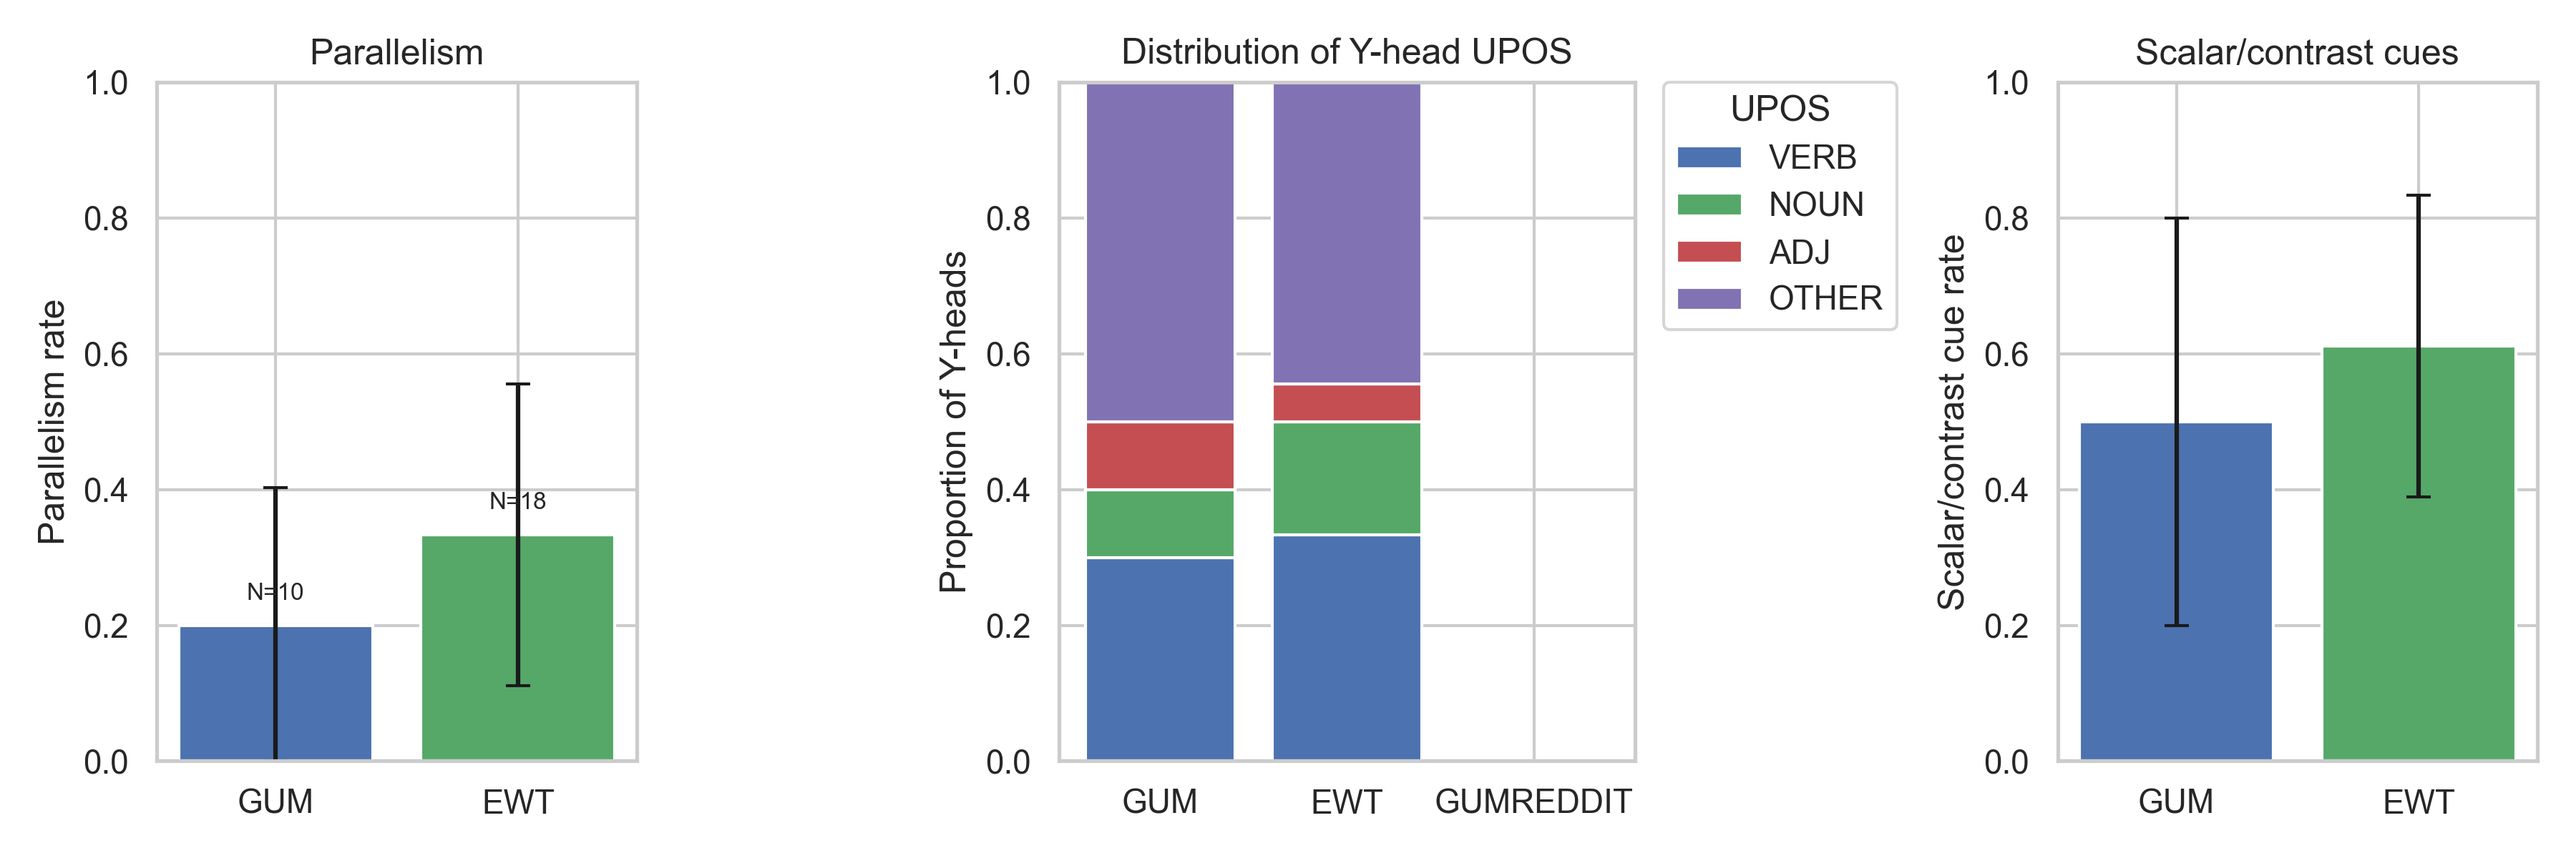
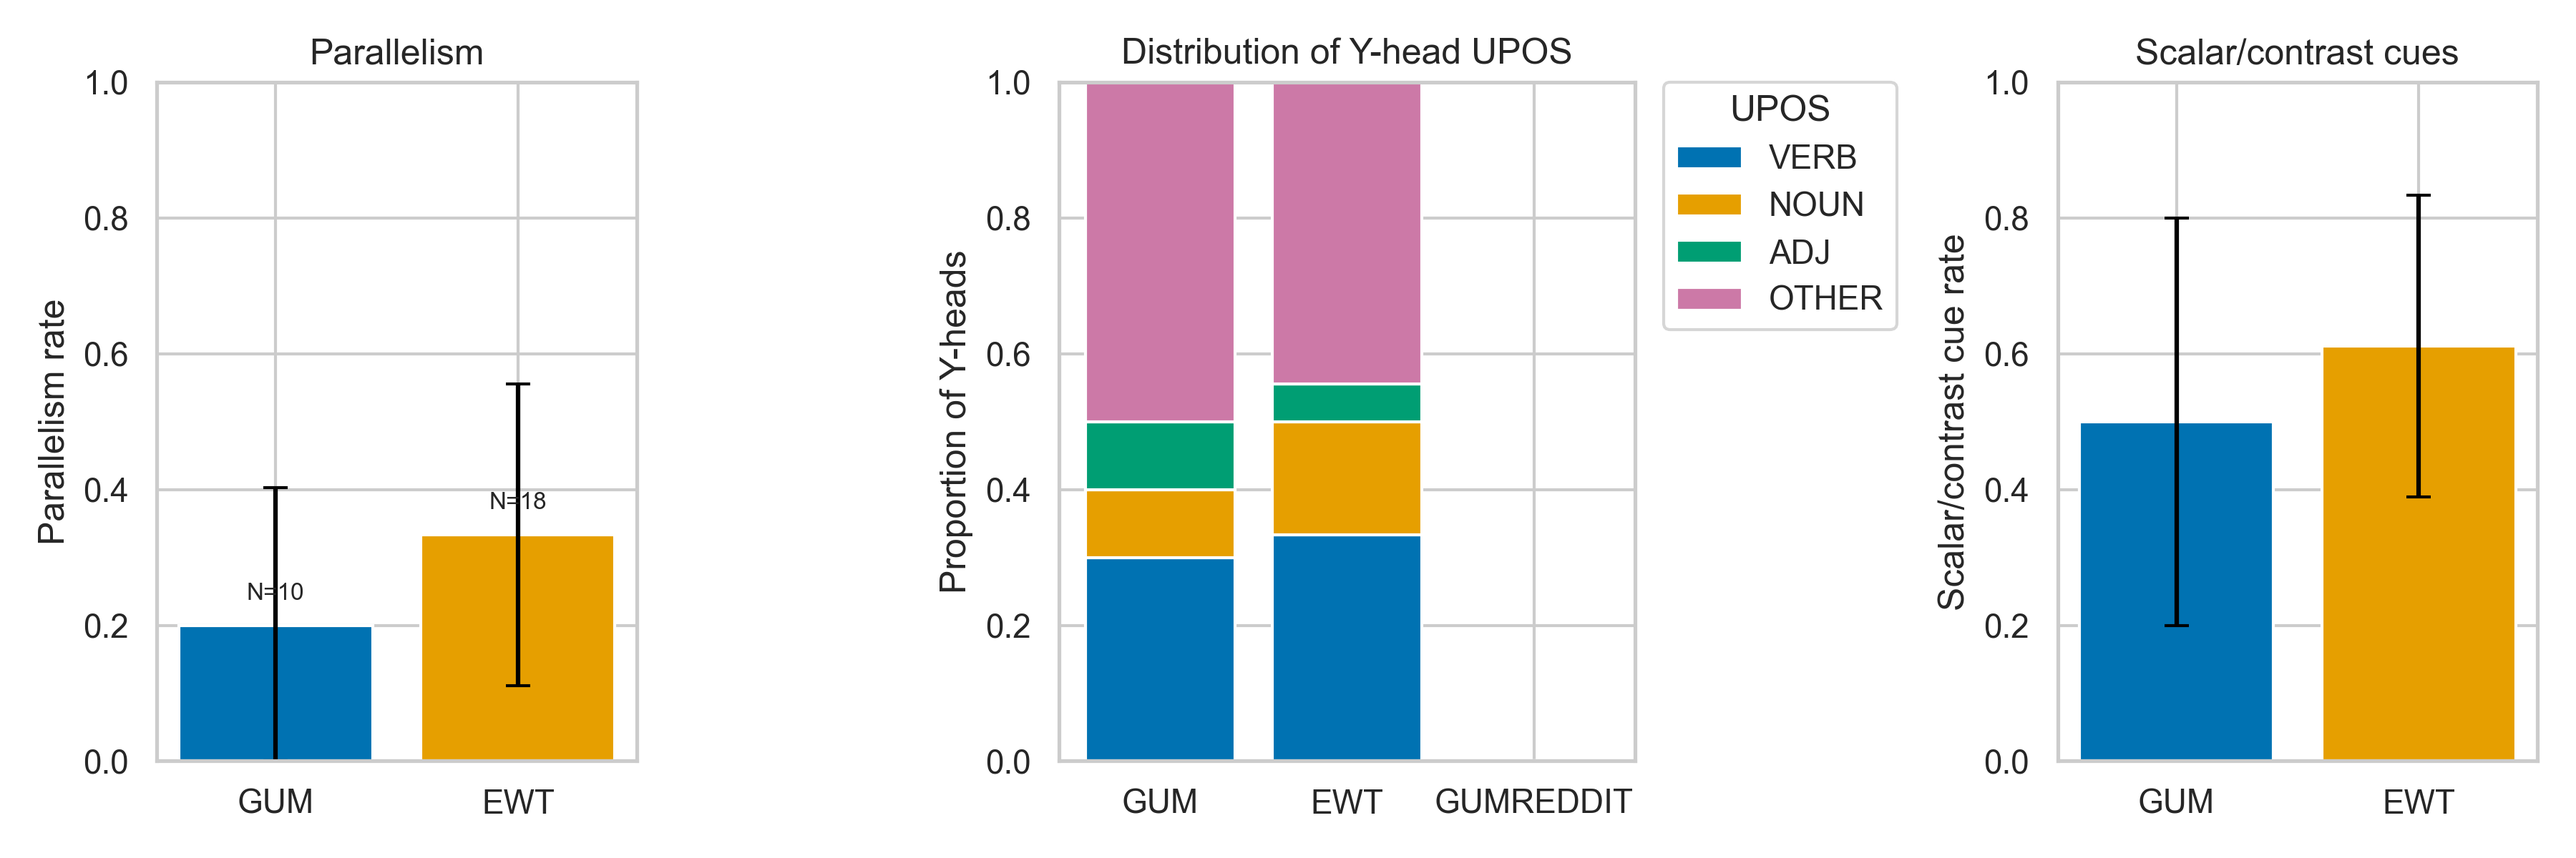
Update analysis scripts and regenerated figures

diff --git a/python/03_model_y.py b/python/03_model_y.py
@@ -18,6 +18,7 @@ import pandas as pd
 import matplotlib
 matplotlib.use('Agg')
 import matplotlib.pyplot as plt
+from plot_style import PALETTE, set_plot_style
 import unicodedata
 import re
 
@@ -260,6 +261,7 @@ def main() -> None:
 
     data = primary_data
     model_y, model_i, cv_auc = primary_models
+    set_plot_style()
     vmin = min(data["vowel_inv_excl_y"].min(), data["vowel_inv_excl_i"].min())
     vmax = max(data["vowel_inv_excl_y"].max(), data["vowel_inv_excl_i"].max())
     vowel_seq = np.linspace(vmin, vmax, 100)
@@ -267,18 +269,32 @@ def main() -> None:
     i_pred = generate_predictions(model_i, data, vowel_seq, "vowel_inv_excl_i")
     fig, ax = plt.subplots(figsize=(8, 5))
     jitter = np.random.default_rng(RANDOM_SEED).uniform(-0.02, 0.02, size=len(data))
-    ax.scatter(data["vowel_inv_excl_y"], data["y_present"] + jitter,
-               color="black", alpha=0.5, s=10, label="Languages (/y/ present = 1)")
-    ax.plot(vowel_seq, y_mean, color="#0072B2", lw=2, label="Predicted P(/y/)")
-    ax.fill_between(vowel_seq, y_lower, y_upper, color="#0072B2", alpha=0.2)
-    ax.plot(vowel_seq, i_pred, color="#D55E00", lw=1.5, ls="--", label="Predicted P(/i/)", alpha=0.8)
+    ax.scatter(
+        data["vowel_inv_excl_y"],
+        data["y_present"] + jitter,
+        color=PALETTE["black"],
+        alpha=0.5,
+        s=10,
+        label="Languages (/y/ present = 1)",
+    )
+    ax.plot(vowel_seq, y_mean, color=PALETTE["blue"], lw=2, label="Predicted P(/y/)")
+    ax.fill_between(vowel_seq, y_lower, y_upper, color=PALETTE["blue"], alpha=0.2)
+    ax.plot(
+        vowel_seq,
+        i_pred,
+        color=PALETTE["vermillion"],
+        lw=1.5,
+        ls="--",
+        label="Predicted P(/i/)",
+        alpha=0.8,
+    )
     ax.set_xlabel("Vowel inventory size (excluding target segment)")
     ax.set_ylabel("Probability of vowel in inventory")
     ax.set_ylim(-0.05, 1.05)
     ax.set_title("Probability of /y/ vs vowel inventory size")
-    ax.legend(loc="upper left")
     ax.text(vmax * 0.97, 0.9, f"10-fold CV AUC (/y/): {cv_auc:.3f}",
             ha="right", va="center", fontsize=9)
+    ax.legend(loc="upper left", bbox_to_anchor=(0.02, 0.88), frameon=False)
     fig.tight_layout()
     os.makedirs(FIG_DIR, exist_ok=True)
     fig.savefig(os.path.join(FIG_DIR, "y_vs_vowel_inventory.pdf"))

diff --git a/python/12_profile_plot.py b/python/12_profile_plot.py
@@ -29,6 +29,7 @@ import matplotlib
 matplotlib.use("Agg")  # use non-interactive backend
 import matplotlib.pyplot as plt
 import seaborn as sns
+from plot_style import CATEGORY_COLORS, CORPUS_COLORS, set_plot_style
 
 
 RANDOM_SEED = 20250901
@@ -123,7 +124,8 @@ def main() -> None:
             "n": len(subset),
         }
     # Plotting
-    sns.set(style="whitegrid")
+    set_plot_style()
+    sns.set_theme(style="whitegrid", palette=CORPUS_COLORS)
     fig, axes = plt.subplots(1, 3, figsize=(12, 4), gridspec_kw={'width_ratios': [1, 1.2, 1]})
     # Panel 1: parallelism
     labels = ["GUM", "EWT"]
@@ -131,13 +133,13 @@ def main() -> None:
     lows = [stats['gum']['parallel'][1], stats['ewt']['parallel'][1]]
     highs = [stats['gum']['parallel'][2], stats['ewt']['parallel'][2]]
     yerr = [np.array(means) - np.array(lows), np.array(highs) - np.array(means)]
-    axes[0].bar(labels, means, yerr=yerr, color=["#4C72B0", "#55A868"], capsize=4)
+    axes[0].bar(labels, means, yerr=yerr, color=CORPUS_COLORS[:len(labels)], capsize=4)
     axes[0].set_ylim(0, 1)
     axes[0].set_ylabel("Parallelism rate")
     axes[0].set_title("Parallelism")
     # Panel 2: Y-head distribution (stacked bars)
     bottoms = np.zeros(2)
-    colors = ["#4C72B0", "#55A868", "#C44E52", "#8172B3"]
+    colors = CATEGORY_COLORS
     for i, cat in enumerate(categories):
         vals = [stats['gum']['dist'][cat][0], stats['ewt']['dist'][cat][0]]
         axes[1].bar(labels, vals, bottom=bottoms, color=colors[i], label=cat)
@@ -151,7 +153,7 @@ def main() -> None:
     lic_lows = [stats['gum']['licensing'][1], stats['ewt']['licensing'][1]]
     lic_highs = [stats['gum']['licensing'][2], stats['ewt']['licensing'][2]]
     lic_yerr = [np.array(lic_means) - np.array(lic_lows), np.array(lic_highs) - np.array(lic_means)]
-    axes[2].bar(labels, lic_means, yerr=lic_yerr, color=["#4C72B0", "#55A868"], capsize=4)
+    axes[2].bar(labels, lic_means, yerr=lic_yerr, color=CORPUS_COLORS[:len(labels)], capsize=4)
     axes[2].set_ylim(0, 1)
     axes[2].set_ylabel("Licensing prevalence")
     axes[2].set_title("Licensing")

diff --git a/python/12_or_even_profile_plot.py b/python/12_or_even_profile_plot.py
@@ -16,6 +16,7 @@ import matplotlib
 matplotlib.use("Agg")
 import matplotlib.pyplot as plt
 import seaborn as sns
+from plot_style import CATEGORY_COLORS, CORPUS_COLORS, set_plot_style
 
 RANDOM_SEED = 20250901
 BOOTSTRAP_REPS = 1000
@@ -74,7 +75,8 @@ def main() -> None:
             "n": len(subset),
         }
 
-    sns.set(style="whitegrid")
+    set_plot_style()
+    sns.set_theme(style="whitegrid", palette=CORPUS_COLORS)
     fig, axes = plt.subplots(1, 3, figsize=(12, 4), gridspec_kw={'width_ratios': [1, 1.2, 1]})
 
     labels = [c.upper() for c in corpora]
@@ -82,13 +84,13 @@ def main() -> None:
     lows = [stats[c]['parallel'][1] for c in corpora]
     highs = [stats[c]['parallel'][2] for c in corpora]
     yerr = [np.array(means) - np.array(lows), np.array(highs) - np.array(means)]
-    axes[0].bar(labels, means, yerr=yerr, color=["#4C72B0", "#55A868", "#C44E52"], capsize=4)
+    axes[0].bar(labels, means, yerr=yerr, color=CORPUS_COLORS[:len(labels)], capsize=4)
     axes[0].set_ylim(0, 1)
     axes[0].set_ylabel("Parallelism rate")
     axes[0].set_title("Parallelism")
 
     bottoms = np.zeros(len(corpora))
-    colors = ["#4C72B0", "#55A868", "#C44E52", "#8172B3"]
+    colors = CATEGORY_COLORS
     for i, cat in enumerate(categories):
         vals = [stats[c]['dist'][cat][0] for c in corpora]
         axes[1].bar(labels, vals, bottom=bottoms, color=colors[i], label=cat)
@@ -102,7 +104,7 @@ def main() -> None:
     lic_lows = [stats[c]['licensing'][1] for c in corpora]
     lic_highs = [stats[c]['licensing'][2] for c in corpora]
     lic_yerr = [np.array(lic_means) - np.array(lic_lows), np.array(lic_highs) - np.array(lic_means)]
-    axes[2].bar(labels, lic_means, yerr=lic_yerr, color=["#4C72B0", "#55A868", "#C44E52"], capsize=4)
+    axes[2].bar(labels, lic_means, yerr=lic_yerr, color=CORPUS_COLORS[:len(labels)], capsize=4)
     axes[2].set_ylim(0, 1)
     axes[2].set_ylabel("Scalar/contrast cue rate")
     axes[2].set_title("Scalar/contrast cues")

diff --git a/python/02_make_ridgelines.py b/python/02_make_ridgelines.py
@@ -24,6 +24,7 @@ import matplotlib
 matplotlib.use('Agg')  # ensure non-interactive backend
 import matplotlib.pyplot as plt
 from scipy.stats import gaussian_kde
+from plot_style import RIDGELINE_CMAP, PALETTE, set_plot_style
 
 RAW_DIR = os.path.join('data', 'raw')
 OUT_DIR = 'out'
@@ -155,6 +156,7 @@ def prepare_language_data(selected: pd.DataFrame, phoible: pd.DataFrame, languoi
 
 def make_ridgeline_plot(language_data: pd.DataFrame, summary: pd.DataFrame) -> None:
     """Create and save the ridgeline density plot."""
+    set_plot_style()
     # Filter to families with at least MIN_N languages
     valid_fams = summary[summary['N'] >= MIN_N]['family_name']
     df = language_data[language_data['family_name'].isin(valid_fams)].copy()
@@ -166,9 +168,9 @@ def make_ridgeline_plot(language_data: pd.DataFrame, summary: pd.DataFrame) -> N
     q75 = np.percentile(language_data['total_inventory_size'], 75)
     print(f"[ridgelines] global IQR: {q25:.1f}--{q75:.1f}")
     # Set up figure
-    fig, ax = plt.subplots(figsize=(8, 6))
+    fig, ax = plt.subplots(figsize=(8, 9))
     # Colour map
-    cmap = plt.get_cmap('viridis')
+    cmap = RIDGELINE_CMAP
     # Determine x range
     x_min = language_data['total_inventory_size'].min() - 5
     x_max = language_data['total_inventory_size'].max() + 5
@@ -185,7 +187,7 @@ def make_ridgeline_plot(language_data: pd.DataFrame, summary: pd.DataFrame) -> N
         ax.fill_between(xs, offset, ys + offset, color=cmap(idx / max(len(fam_order)-1, 1)), alpha=0.7)
         ax.text(x_min + 1, offset + 0.1, fam, va='bottom', ha='left', fontsize=9)
     # Draw global IQR band
-    ax.axvspan(q25, q75, ymin=0, ymax=1, color='grey', alpha=0.1)
+    ax.axvspan(q25, q75, ymin=0, ymax=1, color=PALETTE["gray"], alpha=0.12)
     # Formatting
     ax.set_xlabel('Total phoneme inventory size')
     ax.set_ylabel('Language family (ordered by median size)')

diff --git a/python/plot_style.py b/python/plot_style.py
@@ -1,0 +1,61 @@
+#!/usr/bin/env python3
+"""
+Shared plotting style utilities for consistent color usage.
+"""
+from __future__ import annotations
+
+import matplotlib as mpl
+from matplotlib.colors import LinearSegmentedColormap
+
+
+PALETTE = {
+    "blue": "#0072B2",
+    "orange": "#E69F00",
+    "green": "#009E73",
+    "vermillion": "#D55E00",
+    "purple": "#CC79A7",
+    "sky": "#56B4E9",
+    "yellow": "#F0E442",
+    "gray": "#4D4D4D",
+    "black": "#000000",
+}
+
+LINE_COLORS = [
+    PALETTE["blue"],
+    PALETTE["vermillion"],
+    PALETTE["green"],
+    PALETTE["purple"],
+    PALETTE["sky"],
+    PALETTE["orange"],
+    PALETTE["gray"],
+]
+
+CORPUS_COLORS = [
+    PALETTE["blue"],
+    PALETTE["orange"],
+    PALETTE["green"],
+    PALETTE["purple"],
+]
+
+CATEGORY_COLORS = [
+    PALETTE["blue"],
+    PALETTE["orange"],
+    PALETTE["green"],
+    PALETTE["purple"],
+]
+
+MODEL_COLORS = {
+    "full": PALETTE["blue"],
+    "no_parallelism": PALETTE["orange"],
+    "no_licensing": PALETTE["green"],
+}
+
+RIDGELINE_CMAP = LinearSegmentedColormap.from_list(
+    "hpc_blues",
+    ["#DCE9F8", PALETTE["blue"]],
+)
+
+
+def set_plot_style() -> None:
+    """Apply a consistent color cycle across matplotlib plots."""
+    mpl.rcParams["axes.prop_cycle"] = mpl.cycler(color=LINE_COLORS)

diff --git a/python/13_or_even_prcurve.py b/python/13_or_even_prcurve.py
@@ -18,6 +18,7 @@ import pandas as pd
 import matplotlib
 matplotlib.use("Agg")
 import matplotlib.pyplot as plt
+from plot_style import MODEL_COLORS, set_plot_style
 from sklearn.linear_model import LogisticRegression
 from sklearn.metrics import average_precision_score, precision_recall_curve, precision_score, recall_score, f1_score
 
@@ -83,9 +84,11 @@ def compute_metrics(y_true: np.ndarray, y_prob: np.ndarray) -> Dict[str, float]:
 
 
 def plot_curves(curves: Dict[str, Tuple[np.ndarray, np.ndarray]], path: str, title: str) -> None:
+    set_plot_style()
     plt.figure(figsize=(6, 4))
     for label, (rec, prec) in curves.items():
-        plt.plot(rec, prec, label=label)
+        color = MODEL_COLORS.get(label)
+        plt.plot(rec, prec, label=label, color=color)
     plt.xlabel("Recall")
     plt.ylabel("Precision")
     plt.title(title)

diff --git a/python/13_predict_prcurve.py b/python/13_predict_prcurve.py
@@ -24,6 +24,7 @@ import matplotlib
 
 matplotlib.use("Agg")
 import matplotlib.pyplot as plt
+from plot_style import MODEL_COLORS, set_plot_style
 from sklearn.linear_model import LogisticRegression
 from sklearn.metrics import average_precision_score, precision_recall_curve, precision_score, recall_score, f1_score
 
@@ -90,9 +91,11 @@ def compute_metrics(y_true: np.ndarray, y_prob: np.ndarray) -> Dict[str, float]:
 
 
 def plot_curves(curves: Dict[str, Tuple[np.ndarray, np.ndarray]], path: str, title: str) -> None:
+    set_plot_style()
     plt.figure(figsize=(6, 4))
     for label, (rec, prec) in curves.items():
-        plt.plot(rec, prec, label=label)
+        color = MODEL_COLORS.get(label)
+        plt.plot(rec, prec, label=label, color=color)
     plt.xlabel("Recall")
     plt.ylabel("Precision")
     plt.title(title)
